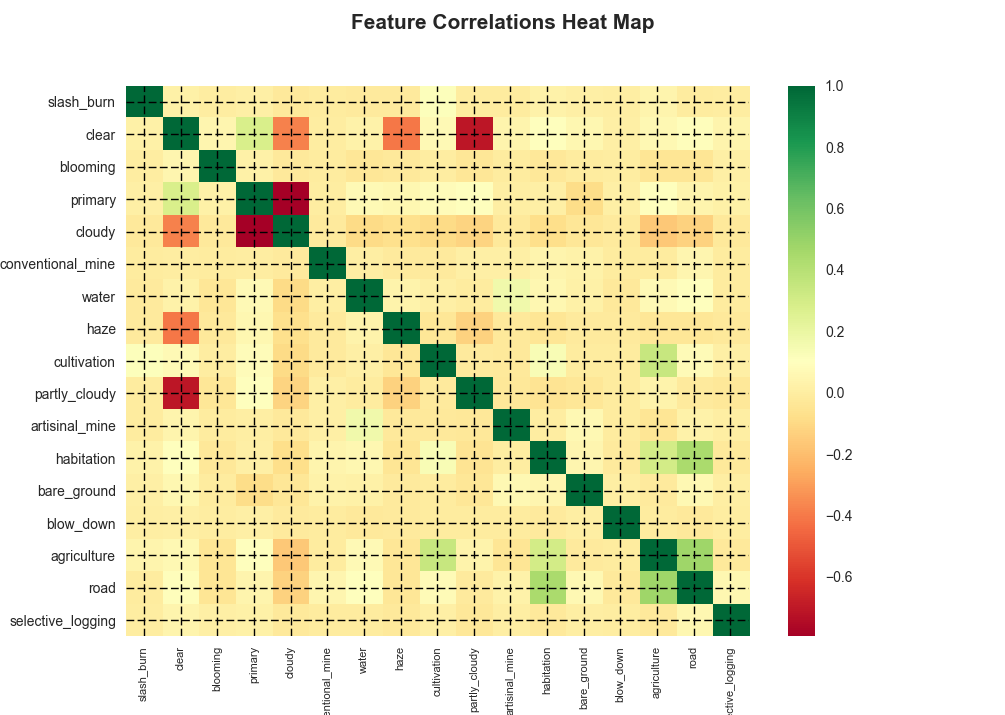
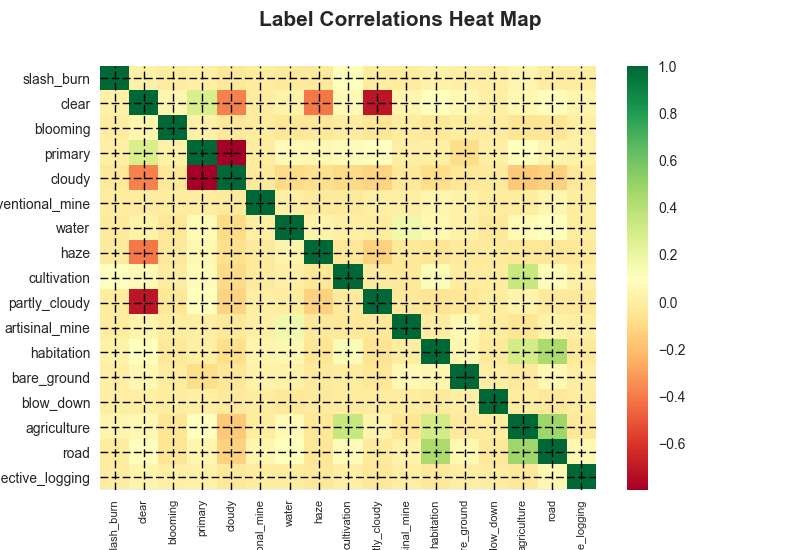
Title correction of plot

diff --git a/src/process_y.py b/src/process_y.py
@@ -56,7 +56,7 @@ def plot_corr(corr):
     plt.grid(True, ls = '--', color = 'k')
     plt.xticks(range(len(corr)), corr.columns, rotation='vertical', fontsize = 8)
     plt.yticks(range(len(corr)), corr.columns, fontsize = 10);
-    plt.suptitle('Feature Correlations Heat Map', fontsize=15, fontweight='bold')
+    plt.suptitle('Label Correlations Heat Map', fontsize=15, fontweight='bold')
     plt.show()
 
 #plot_corr(Y.corr())
